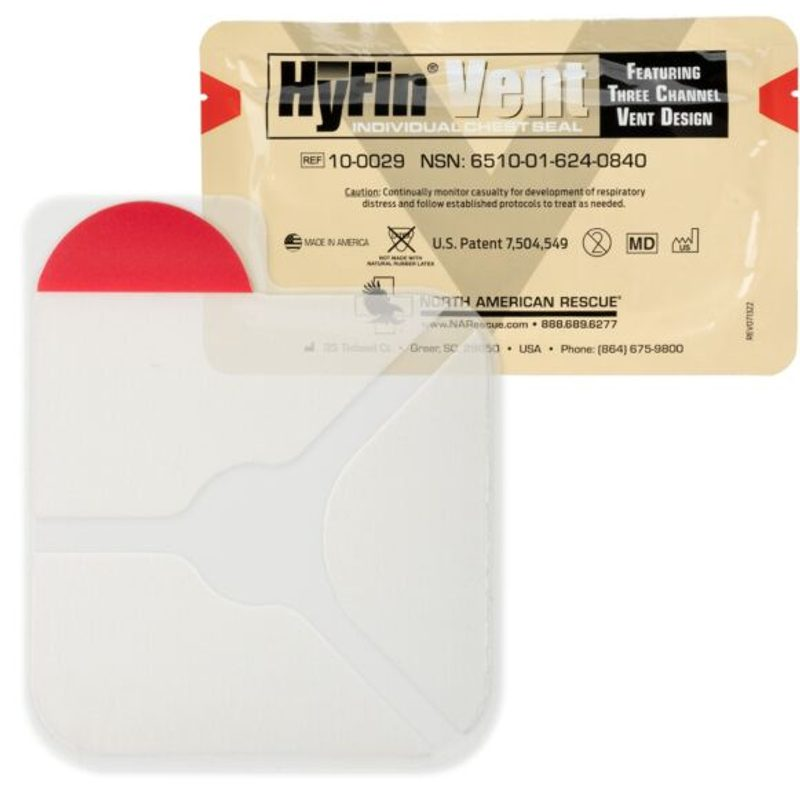
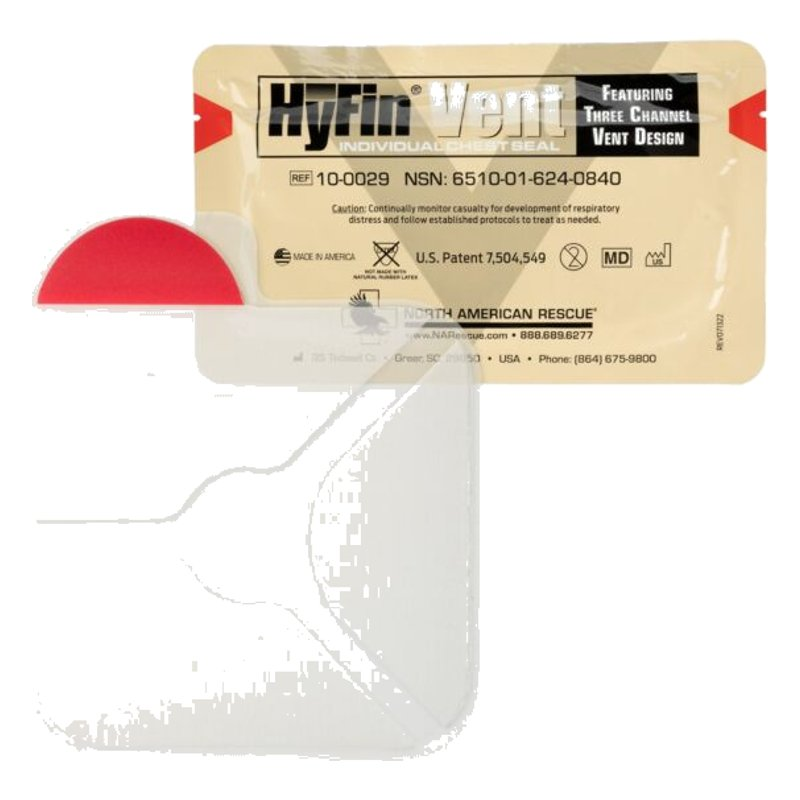
Trim, whiten, and fill product photos consistently
Sizes varied a lot because the source photos had inconsistent internal whitespace, and a few had a faint gray gradient background that showed as a seam against the card's pure white. Now every photo is trimmed to its content, background-whitened, and padded to fill the tile at a consistent scale.

diff --git a/shop.html b/shop.html
@@ -87,7 +87,7 @@
     .product-card:hover { border-color: var(--red); }
     .product-card-image { position: relative; aspect-ratio: 1 / 1; background: var(--white); display: flex; align-items: center; justify-content: center; overflow: hidden; }
     .product-card-image svg { width: 30%; height: 30%; stroke: var(--red); fill: none; stroke-width: 1.5; stroke-linecap: round; stroke-linejoin: round; opacity: 0.85; }
-    .product-card-photo { width: 100%; height: 100%; object-fit: contain; padding: 12%; box-sizing: border-box; }
+    .product-card-photo { width: 100%; height: 100%; object-fit: contain; padding: 6%; box-sizing: border-box; }
     .product-card-cat { position: absolute; top: 10px; left: 10px; background: rgba(17,17,17,0.85); color: var(--white); font-family: 'Barlow Condensed', sans-serif; font-size: 10px; font-weight: 700; letter-spacing: 0.06em; text-transform: uppercase; padding: 4px 8px; }
     .product-card-badge { position: absolute; top: 10px; right: 10px; background: var(--gold); color: var(--dark); font-family: 'Barlow Condensed', sans-serif; font-size: 10px; font-weight: 700; letter-spacing: 0.06em; text-transform: uppercase; padding: 4px 8px; }
     .product-card-brand { font-size: 11px; color: var(--gray-light); margin-top: -2px; }
